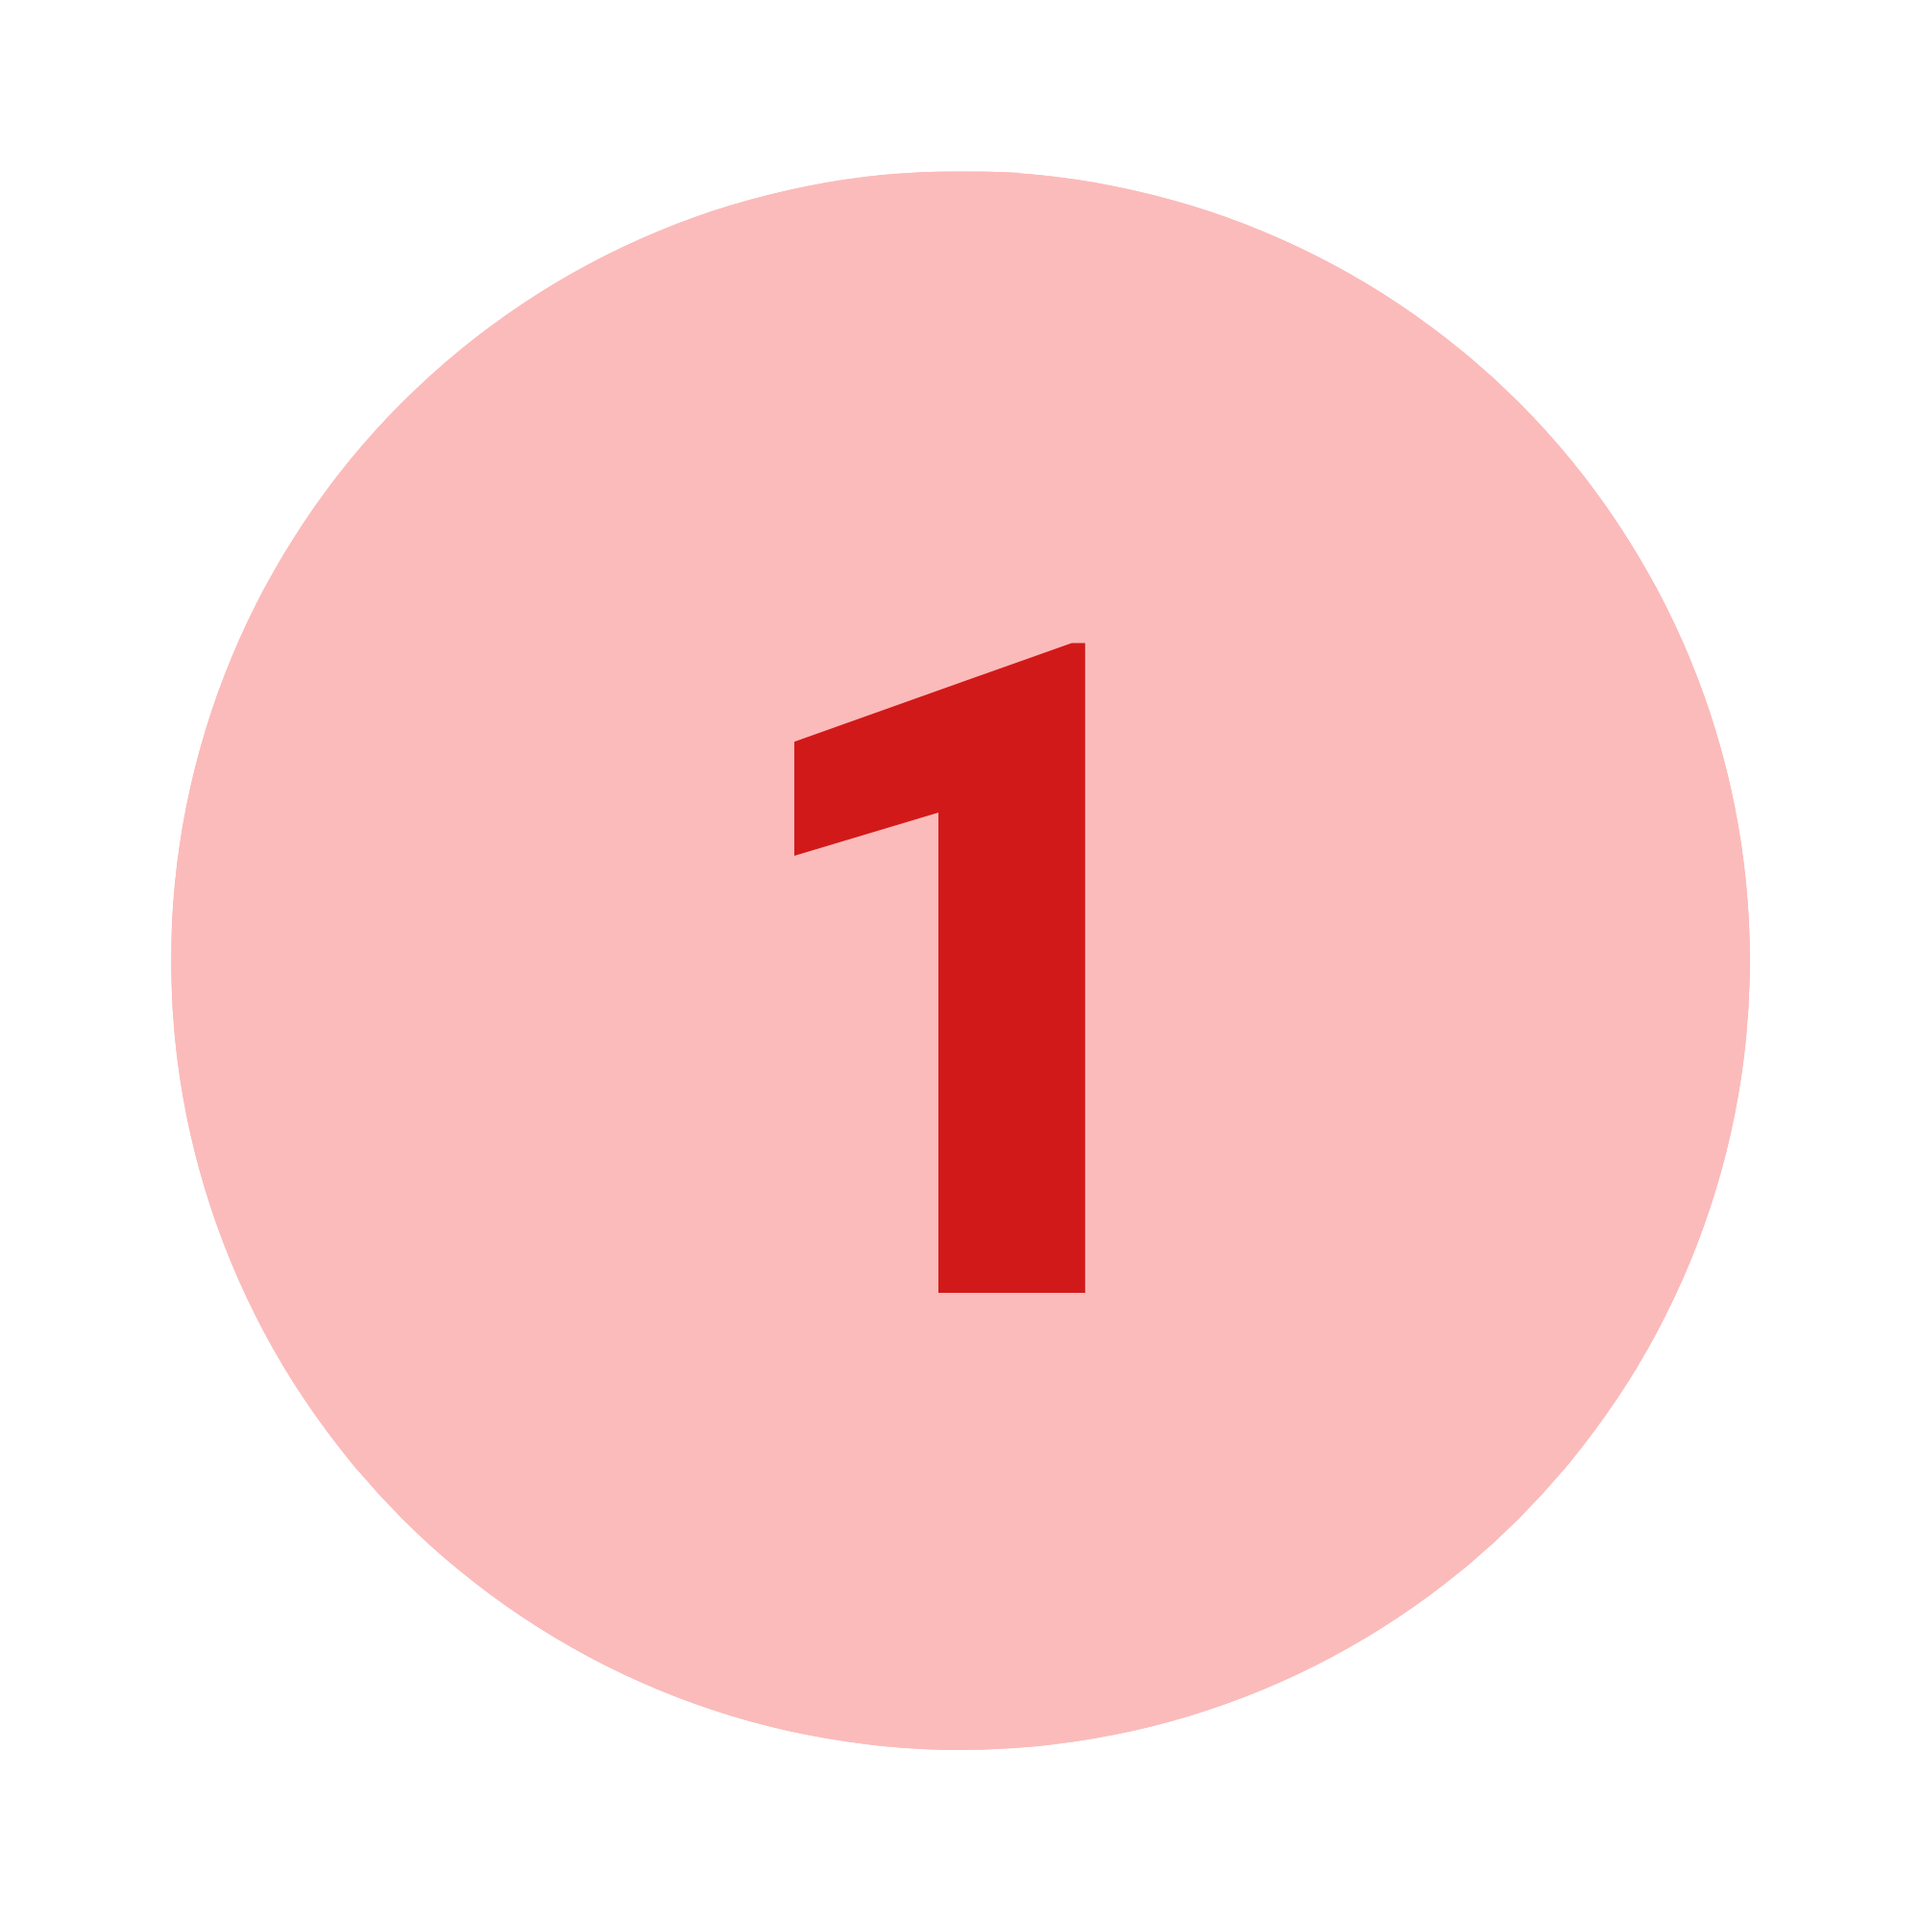
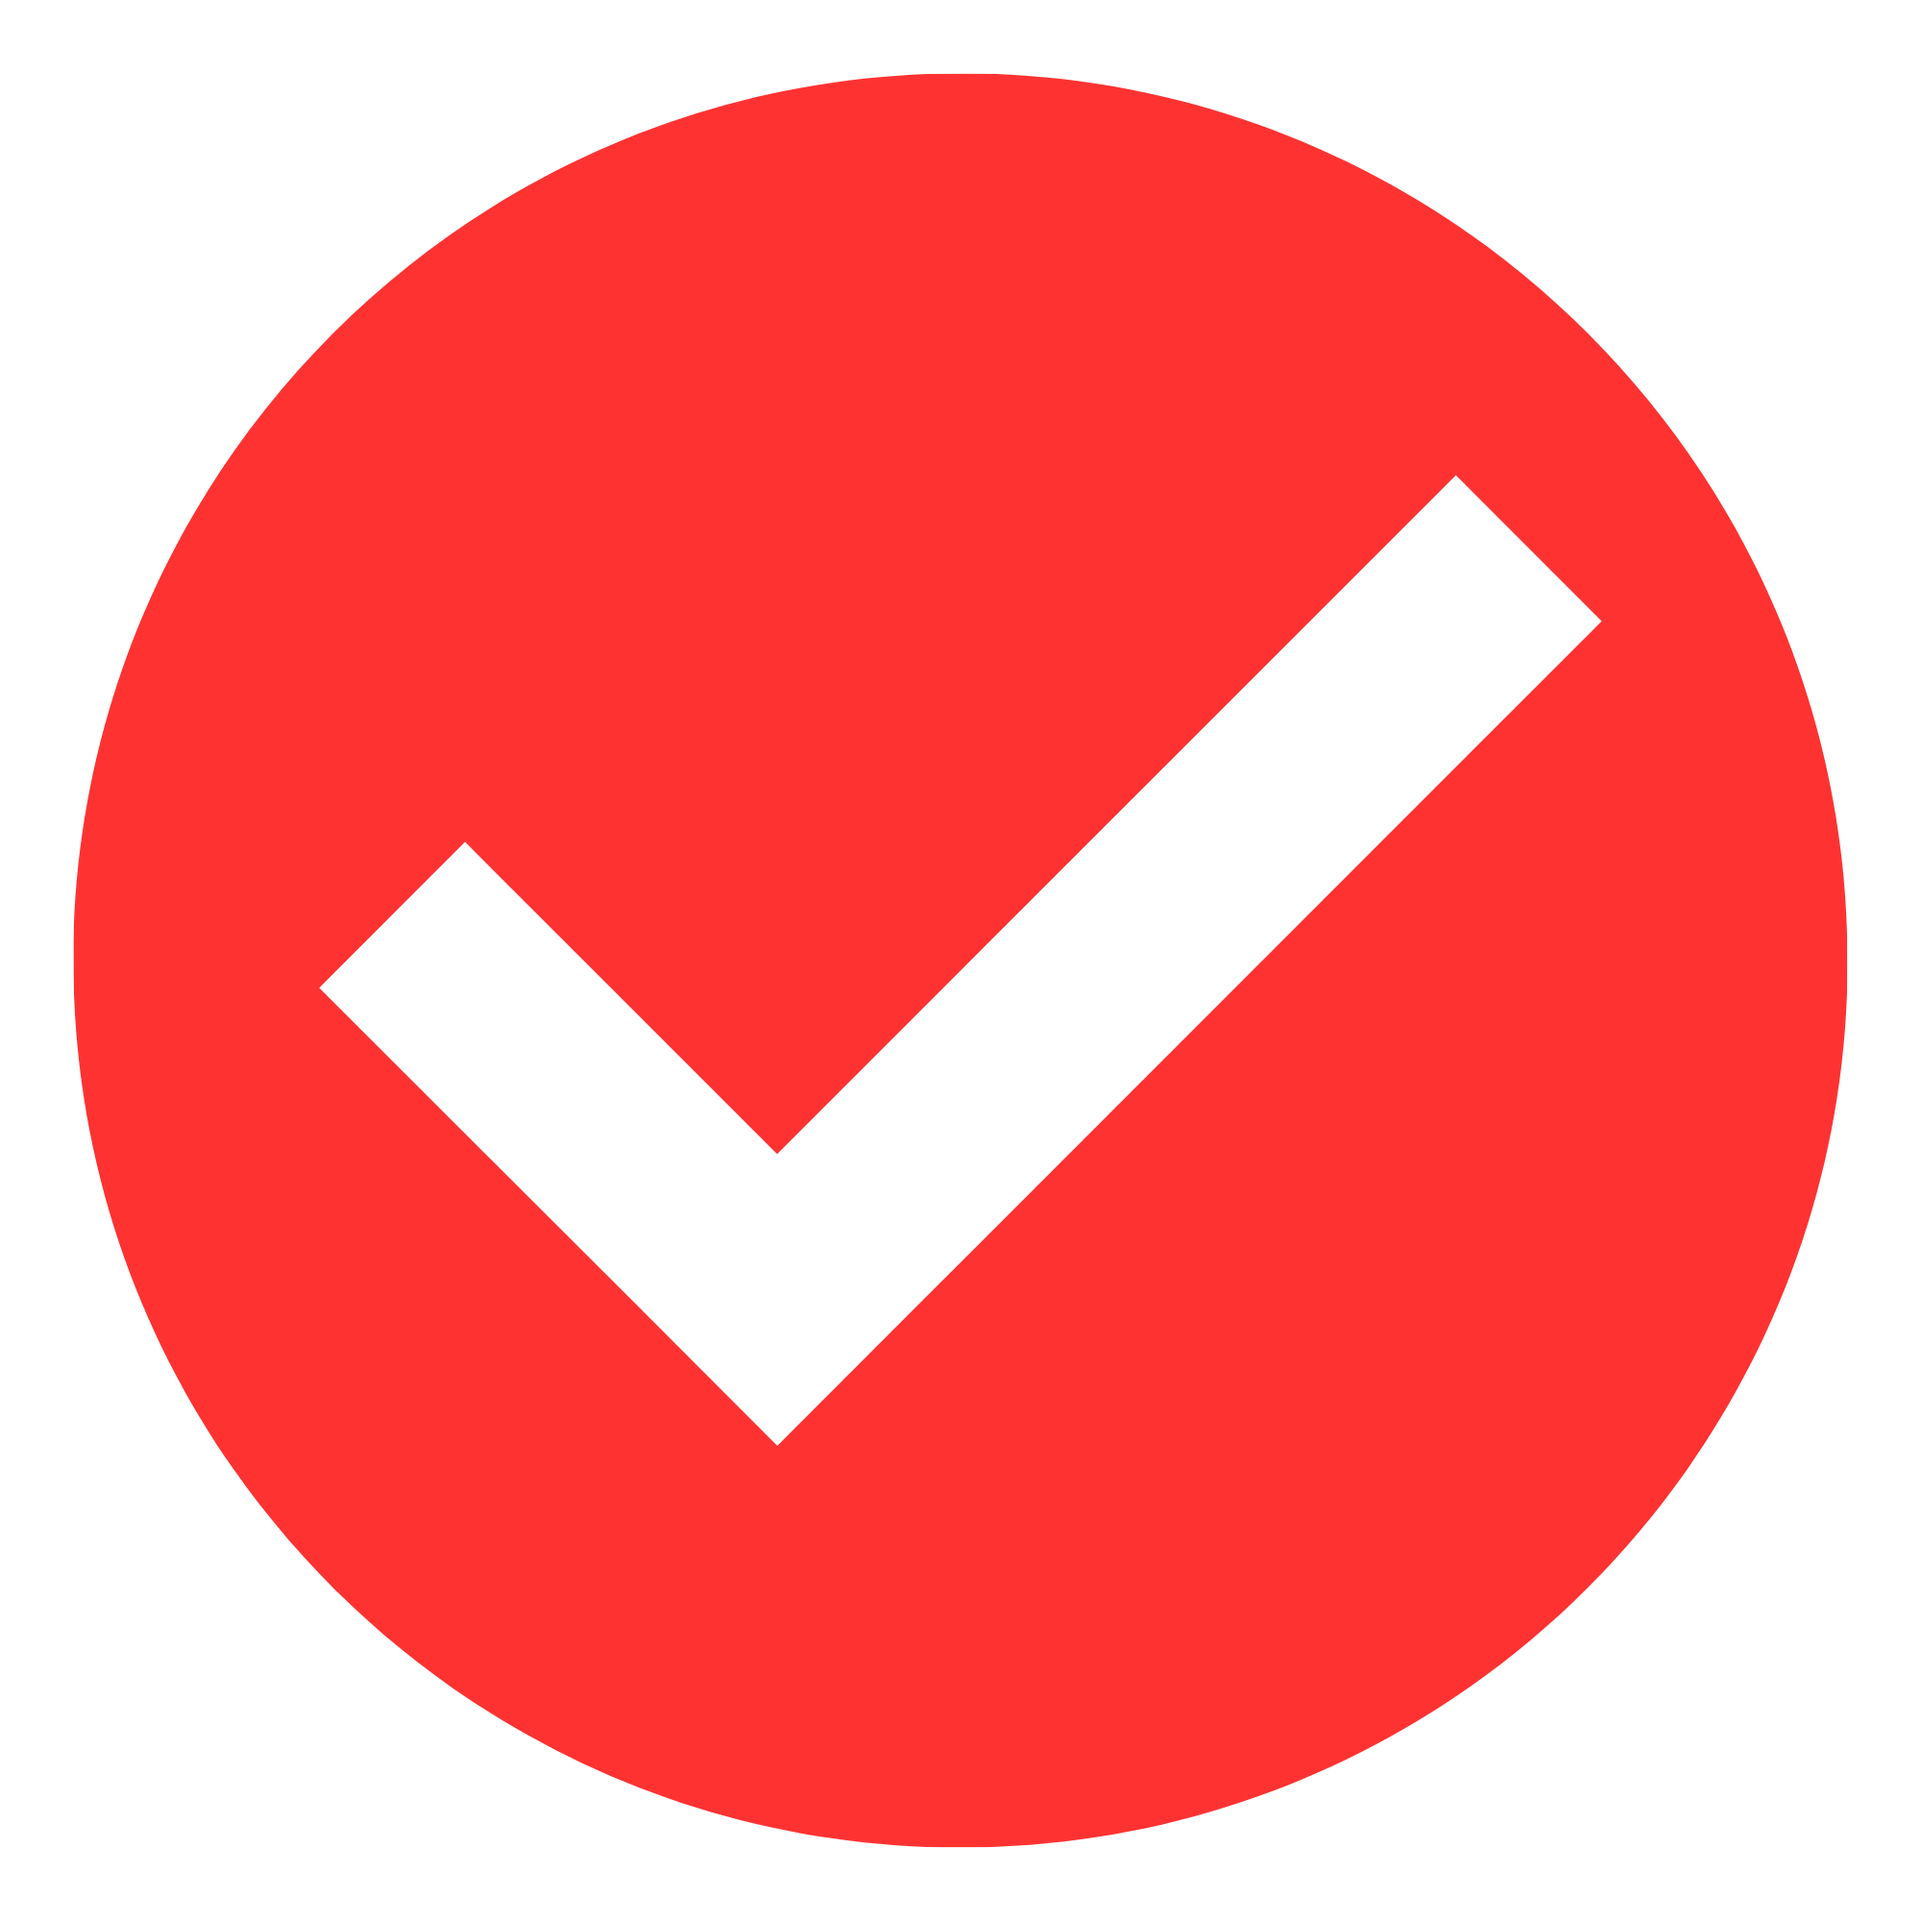
Update Top Streamer badge styling

diff --git a/components/top-streamer-badge.tsx b/components/top-streamer-badge.tsx
@@ -1,21 +1,13 @@
-import Image from 'next/image';
+import { Check } from 'lucide-react';
 
 export function TopStreamerBadge({ className = 'h-4 w-4' }: { className?: string }) {
   return (
     <span
-      className={`relative inline-flex items-center justify-center ${className}`}
+      className={`inline-flex items-center justify-center rounded-full bg-red-500 text-zinc-950 dark:bg-red-500 dark:text-zinc-950 ${className}`}
       aria-label="Top ViewTube Streamer"
       title="Top ViewTube Streamer"
     >
-      <Image
-        src="/badges/top-streamer.png"
-        alt="Top ViewTube Streamer"
-        fill
-        className="object-contain"
-        sizes="16px"
-        priority={false}
-      />
+      <Check className="h-[70%] w-[70%] stroke-[3]" />
     </span>
   );
 }
-
